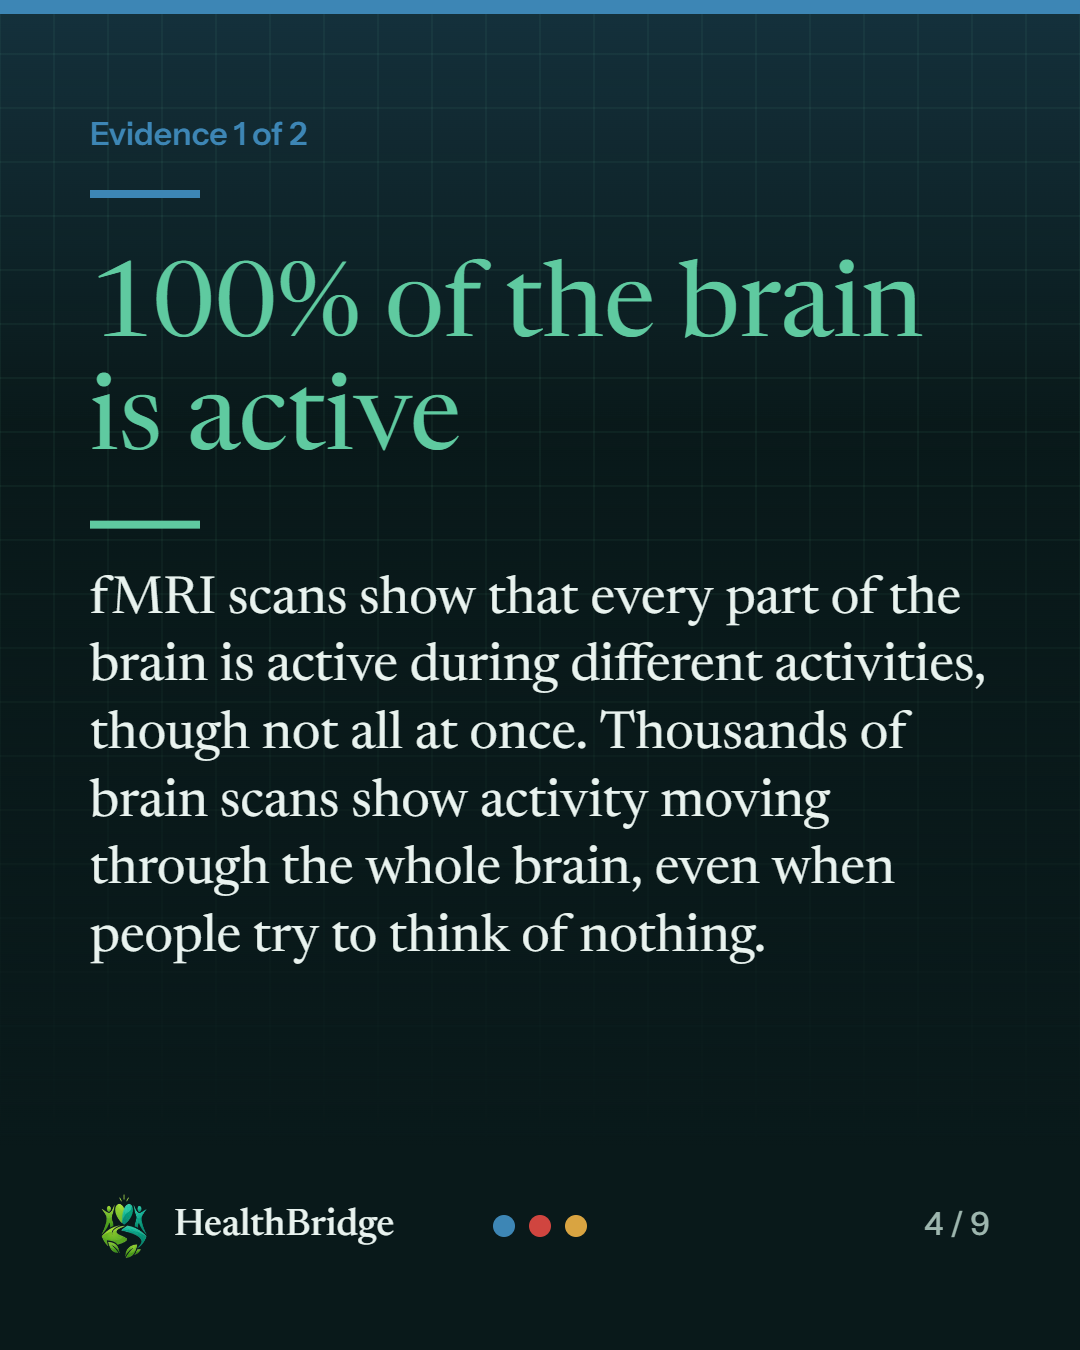
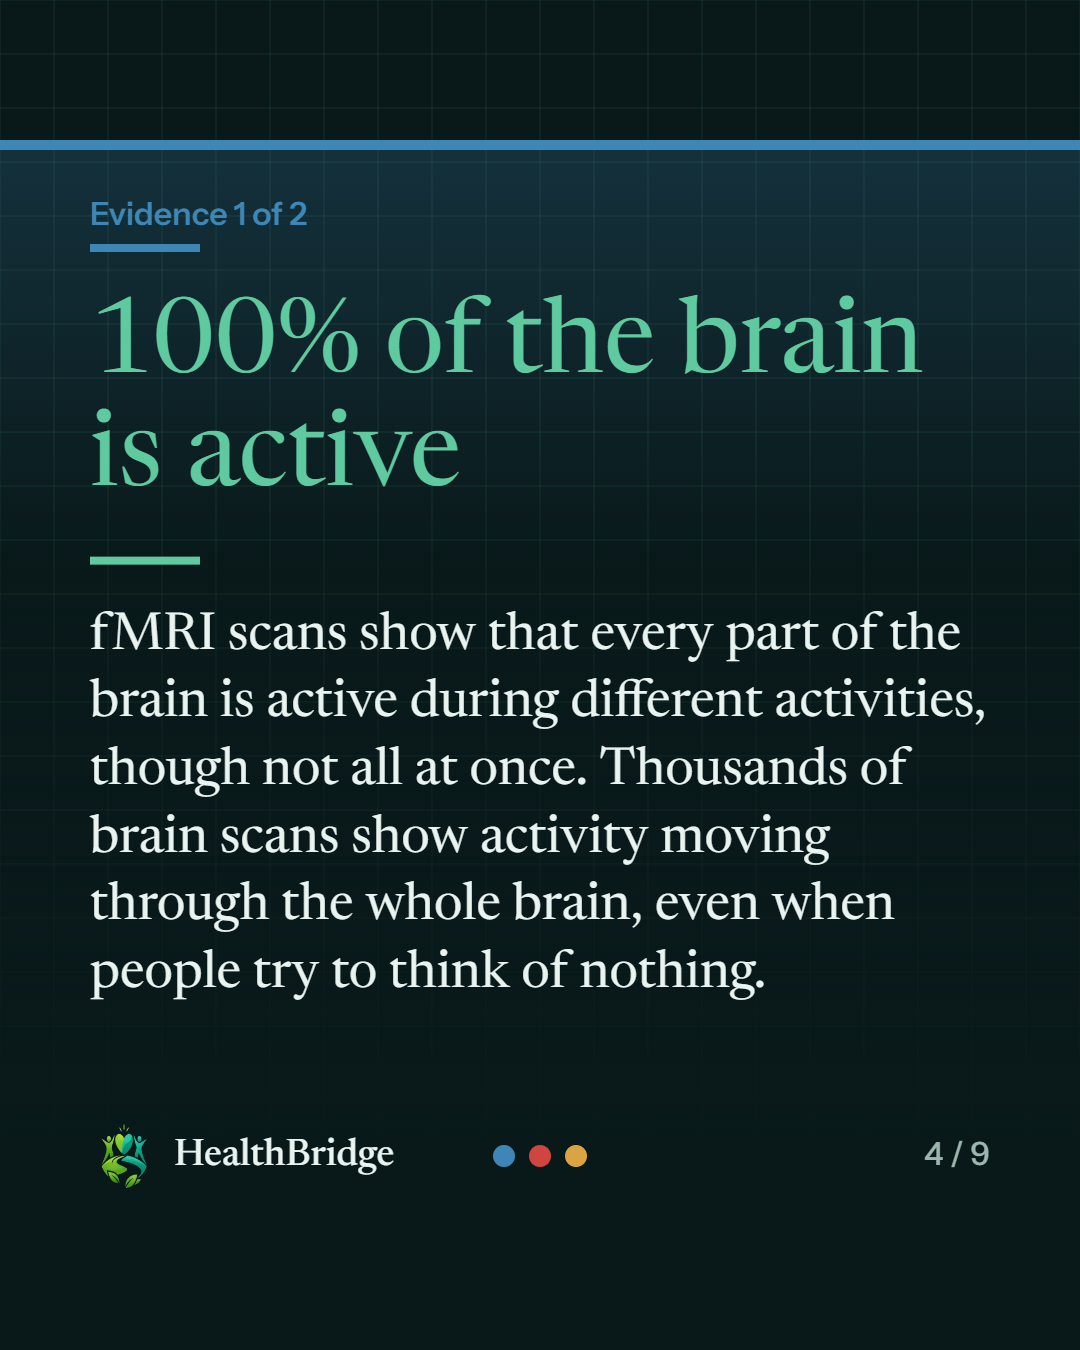
MythBuster 1 slides re-made with a square-crop safe zone; carousel maker keeps the accent strip, labels and footer inside rows 135-1215

diff --git a/tools/carousel/index.html b/tools/carousel/index.html
@@ -151,7 +151,7 @@
     dark: { bg: '#09191a', ink: '#e9f3ef', ink2: '#9db6ae', brand: '#5fcaa0', grid: 'rgba(95,202,160,0.09)', bad: '#ff8d78', mid: '#e8b45a' },
     forest: { bg: '#0d3b2f', ink: '#e9f5ef', ink2: '#a9cdbf', brand: '#8fe0b5', grid: 'rgba(233,245,239,0.08)', bad: '#ffb09c', mid: '#f0c878' },
   }
-  var POST = { w: 1080, h: 1350, top: 0, bottom: 90 }
+  var POST = { w: 1080, h: 1350, top: 0, bottom: 160 } // bottom 160 keeps the footer inside a centred square crop (Instagram crops 1350 high slides to 1080 high: it cuts 135 px off the top and bottom)
   var STORY = { w: 1080, h: 1920, top: 250, bottom: 340 } // Instagram covers the top and bottom of a story with its own buttons
   var DIM = POST
   var MAX_BODY = 8 // Instagram allows 10 slides: a cover, up to 8 body slides, and the last slide
@@ -207,9 +207,12 @@
         { name: 'verdict', label: 'Verdict', kind: 'select', options: ['Myth', 'Partly true', 'True', 'Not proven'] },
         { name: 'truth', label: 'The short answer (verdict slide)', kind: 'area', help: 'Plain language. One or two sentences, about 25 words.' },
         { name: 'terms', label: 'Words to know (optional, one per line as: word: meaning)', kind: 'area', help: 'Two or three words a reader might not know. Keep each meaning to one short sentence.' },
+        { name: 'headline1', label: 'Big phrase for evidence slide 1 (optional, 8 words or fewer)', kind: 'text', max: 60 },
         { name: 'evidence1', label: 'Evidence slide 1 (optional)', kind: 'area', help: 'One finding, plain language, about 40 words.' },
+        { name: 'headline2', label: 'Big phrase for evidence slide 2 (optional, 8 words or fewer)', kind: 'text', max: 60 },
         { name: 'evidence2', label: 'Evidence slide 2 (optional)', kind: 'area', help: 'A second, different finding.' },
         { name: 'origin', label: 'Where the myth came from (optional, keep it short)', kind: 'area', short: true, help: 'Two sentences at most.' },
+        { name: 'timeline', label: 'Timeline under it (optional, one per line as: year: what happened)', kind: 'area', help: 'Up to 3 lines. Shown as a timeline on the "where it came from" slide.' },
         { name: 'source1', label: 'Source 1: who (author and publisher)', kind: 'text', max: 90, help: 'For example: Avery Hurt, Discover Magazine. Check the source yourself first.' },
         { name: 'source1t', label: 'Source 1: title and year', kind: 'text', max: 140 },
         { name: 'source2', label: 'Source 2: who (author and publisher)', kind: 'text', max: 90 },
@@ -407,6 +410,13 @@
       rr(ctx, PAD + k * gap, cy - h / 2, gap * 0.55, h, gap * 0.27); ctx.fill()
     }
   }
+  // The topic's own symbol, drawn large in outline on the right of a MythBuster cover
+  function topicIcon(ctx, topic, y, size) {
+    var tp = TOPIC[topic]; if (!tp) return
+    ctx.save(); ctx.translate(DIM.w - PAD - size, y); ctx.scale(size / 64, size / 64)
+    ctx.strokeStyle = tp.c; ctx.lineWidth = 2.4; ctx.lineJoin = 'round'; ctx.lineCap = 'round'
+    ctx.stroke(tp.icon); ctx.restore()
+  }
   function deco(ctx, t, kind, y, seedText) { if (kind === 'wave') wave(ctx, t, y + 80, seedText); else trace(ctx, t, y) }
   function background(ctx, t) {
     var W = DIM.w, H = DIM.h
@@ -430,11 +440,20 @@
     ctx.textAlign = 'left'
   }
   // a label's colour: the topic's colour if the label names one of the three topics, otherwise the brand green
-  function labelColour(t, label) { var k = ['Neurology', 'Cardiology', 'Psychology'].filter(function (x) { return String(label || '').indexOf(x) >= 0 })[0]; return k ? TOPIC[k].c : t.brand }
+  var curAccent = null // the topic colour of the slide being drawn (MythBuster sets it on every slide)
+  function labelColour(t, label) { var k = ['Neurology', 'Cardiology', 'Psychology'].filter(function (x) { return String(label || '').indexOf(x) >= 0 })[0]; return k ? TOPIC[k].c : (curAccent || t.brand) }
+  // A hint of the topic colour on every slide: a soft glow from the top edge and a thin strip along it
+  function accentHint(ctx, colour) {
+    // The strip sits at y 140, inside the part a centred square crop keeps (rows 135 to 1215), so Instagram cannot cut it off
+    var W = DIM.w, g = ctx.createLinearGradient(0, 140, 0, 560)
+    g.addColorStop(0, hexA(colour, 0.22)); g.addColorStop(1, hexA(colour, 0))
+    ctx.fillStyle = g; ctx.fillRect(0, 140, W, 420)
+    ctx.fillStyle = colour; ctx.fillRect(0, 140, W, 10)
+  }
   function labelRule(ctx, t, label) {
     var lc = labelColour(t, label)
     ctx.fillStyle = lc; ctx.font = '600 32px ' + SANS; ctx.textBaseline = 'top'
-    ctx.fillText(label, PAD, 120); ctx.fillRect(PAD, 190, 110, 8)
+    ctx.fillText(label, PAD, 164); ctx.fillRect(PAD, 208, 110, 8) // below the accent strip (140-150) so a square crop keeps it
   }
 
   /* ----- One slide, by kind ----- */
@@ -442,17 +461,46 @@
     canvas.width = DIM.w; canvas.height = DIM.h
     var ctx = canvas.getContext('2d'), t = THEMES[d.theme] || THEMES.light, W = DIM.w
     background(ctx, t); ctx.textAlign = 'left'
+    curAccent = s.accent || null
+    if (curAccent) accentHint(ctx, curAccent)
     var fits = true, inner = { w: W - 2 * PAD }
+    ctx.save(); if (DIM === POST) ctx.translate(0, 36) // post content sits 36 px lower, clear of the accent strip (rows 140-150); the footer is drawn after restore()
     if (s.kind === 'cover') {
       ctx.fillStyle = labelColour(t, s.label); ctx.font = '600 36px ' + SANS; ctx.textBaseline = 'top'
-      ctx.fillText(s.label, PAD, 150)
-      var r = paragraph(ctx, s.text, PAD, 230, { w: inner.w, h: 620, max: 150, min: 64, weight: '400', family: SERIF, lh: 1.04 }, t.ink)
+      ctx.fillText(s.label, PAD, 164)
+      var topicCover = String(s.deco || '').indexOf('topic:') === 0
+      var r = paragraph(ctx, s.text, PAD, 230, { w: inner.w, h: topicCover ? 440 : 620, max: 150, min: 64, weight: '400', family: SERIF, lh: 1.04 }, t.ink)
       fits = r.fits
-      if (s.by) { ctx.fillStyle = t.ink2; ctx.font = '500 38px ' + SANS; ctx.textBaseline = 'top'; ctx.fillText(s.by, PAD, Math.min(r.bottom + 40, 880)) }
-      deco(ctx, t, s.deco, 960, s.text)
+      if (s.by) { ctx.fillStyle = t.ink2; ctx.font = '500 38px ' + SANS; ctx.textBaseline = 'top'; ctx.fillText(s.by, PAD, Math.min(r.bottom + 40, topicCover ? 720 : 880)) }
+      if (topicCover) topicIcon(ctx, s.deco.slice(6), 700, 300); else deco(ctx, t, s.deco, 900, s.text)
     } else if (s.kind === 'text') {
       labelRule(ctx, t, s.label)
       fits = paragraph(ctx, s.text, PAD, 270, { w: inner.w, h: 780, max: 96, min: 44, weight: '400', family: SERIF, lh: 1.2, centre: 0.38 }, t.ink).fits
+    } else if (s.kind === 'evidence') {
+      // A big short phrase first, then the finding underneath in a smaller size
+      labelRule(ctx, t, s.label)
+      var hd = paragraph(ctx, s.head, PAD, 260, { w: inner.w, h: 380, max: 104, min: 60, weight: '400', family: SERIF, lh: 1.08 }, labelColour(t, s.label) === t.brand ? t.brand : t.brand)
+      ctx.fillStyle = t.brand; ctx.fillRect(PAD, hd.bottom + 36, 110, 8)
+      var bd = paragraph(ctx, s.text, PAD, hd.bottom + 90, { w: inner.w, h: Math.max(200, 1050 - (hd.bottom + 90)), max: 52, min: 34, weight: '400', family: SERIF, lh: 1.3 }, t.ink)
+      fits = hd.fits && bd.fits
+    } else if (s.kind === 'origin') {
+      // The short story first, then a timeline with a dot for each date
+      labelRule(ctx, t, s.label)
+      var og = paragraph(ctx, s.text, PAD, 250, { w: inner.w, h: 300, max: 46, min: 34, weight: '400', family: SERIF, lh: 1.28 }, t.ink)
+      var oy = Math.max(og.bottom + 50, 560), lx = PAD + 14
+      var n3 = s.items.length, step = Math.min(170, (1040 - oy) / n3)
+      ctx.strokeStyle = t.brand; ctx.lineWidth = 6; ctx.lineCap = 'round'
+      ctx.beginPath(); ctx.moveTo(lx, oy + 18); ctx.lineTo(lx, oy + 18 + step * (n3 - 1)); ctx.stroke()
+      fits = og.fits
+      s.items.forEach(function (it, i) {
+        var cy = oy + i * step
+        ctx.fillStyle = t.brand; ctx.beginPath(); ctx.arc(lx, cy + 18, 15, 0, 6.2832); ctx.fill()
+        ctx.fillStyle = t.brand; ctx.font = '600 42px ' + SANS; ctx.textBaseline = 'top'; ctx.fillText(it.who, PAD + 56, cy)
+        ctx.fillStyle = t.ink; ctx.font = '400 36px ' + SERIF
+        var lines = wrap(ctx, it.title, inner.w - 56)
+        lines.slice(0, 2).forEach(function (l, j) { ctx.fillText(l, PAD + 56, cy + 52 + j * 44) })
+        if (lines.length > 2) fits = false
+      })
     } else if (s.kind === 'list') {
       labelRule(ctx, t, s.label)
       fits = list(ctx, t, s.items, PAD, 270, { w: inner.w, h: 780, max: 66, min: 36, lh: 1.22 }, s.ordered)
@@ -472,22 +520,42 @@
     } else if (s.kind === 'terms') {
       // Each word in bold, its meaning under it
       labelRule(ctx, t, s.label)
-      var ty = 270, tw = 40, tm = 44
+      // each word sits on its own card, with a coloured bar down the left edge
+      var ty = 270, tw = 44, tm = 40, cardPad = 34, barW = 10
       ctx.textBaseline = 'top'
-      s.items.forEach(function (it) {
-        if (it.who) { ctx.fillStyle = t.brand; ctx.font = '600 ' + tw + 'px ' + SANS; ctx.fillText(it.who, PAD, ty); ty += tw * 1.4 }
-        ctx.fillStyle = t.ink; ctx.font = '400 ' + tm + 'px ' + SERIF
-        wrap(ctx, it.title, inner.w).forEach(function (l) { ctx.fillText(l, PAD, ty); ty += tm * 1.3 })
-        ty += 56
+      var cards = s.items.map(function (it) {
+        ctx.font = '400 ' + tm + 'px ' + SERIF
+        var ls = wrap(ctx, it.title, inner.w - 2 * cardPad - barW)
+        return { it: it, ls: ls, h: cardPad * 2 + (it.who ? tw * 1.4 : 0) + ls.length * tm * 1.3 }
       })
-      fits = ty <= 1060
+      var lc2 = labelColour(t, s.cat || s.label)
+      cards.forEach(function (c) {
+        ctx.fillStyle = t.grid; rr(ctx, PAD, ty, inner.w, c.h, 22); ctx.fill()
+        ctx.fillStyle = t.brand; rr(ctx, PAD, ty, barW + 12, c.h, 6); ctx.fill()
+        var cy2 = ty + cardPad, tx = PAD + barW + cardPad
+        if (c.it.who) { ctx.fillStyle = t.brand; ctx.font = '600 ' + tw + 'px ' + SANS; ctx.fillText(c.it.who, tx, cy2); cy2 += tw * 1.4 }
+        ctx.fillStyle = t.ink; ctx.font = '400 ' + tm + 'px ' + SERIF
+        c.ls.forEach(function (l) { ctx.fillText(l, tx, cy2); cy2 += tm * 1.3 })
+        ty += c.h + 36
+      })
+      fits = ty - 36 <= 1060
     } else if (s.kind === 'verdict') {
       labelRule(ctx, t, 'Verdict')
       var col = s.verdict === 'Myth' ? t.bad : s.verdict === 'Partly true' || s.verdict === 'Not proven' ? t.mid : t.brand
       ctx.fillStyle = col; ctx.font = '400 150px ' + SERIF; ctx.textBaseline = 'top'
-      var vw = ctx.measureText(s.verdict).width; if (vw > inner.w) { ctx.font = '400 ' + Math.floor(150 * inner.w / vw) + 'px ' + SERIF }
+      var vw = ctx.measureText(s.verdict).width, vmax = inner.w - 290; if (vw > vmax) { ctx.font = '400 ' + Math.floor(150 * vmax / vw) + 'px ' + SERIF }
       ctx.fillText(s.verdict, PAD, 250)
       ctx.fillRect(PAD, 440, 110, 8)
+      // a stamp: a ring with a cross (myth), a tick (true) or a question mark (partly true, not proven), tilted a little
+      ctx.save(); ctx.translate(W - PAD - 130, 345); ctx.rotate(-0.12)
+      ctx.strokeStyle = col; ctx.fillStyle = col; ctx.lineWidth = 12; ctx.lineCap = 'round'; ctx.lineJoin = 'round'
+      ctx.beginPath(); ctx.arc(0, 0, 118, 0, 6.2832); ctx.stroke()
+      ctx.lineWidth = 8; ctx.beginPath(); ctx.arc(0, 0, 100, 0, 6.2832); ctx.stroke()
+      ctx.lineWidth = 22
+      if (s.verdict === 'Myth') { ctx.beginPath(); ctx.moveTo(-48, -48); ctx.lineTo(48, 48); ctx.moveTo(48, -48); ctx.lineTo(-48, 48); ctx.stroke() }
+      else if (s.verdict === 'True') { ctx.beginPath(); ctx.moveTo(-56, 4); ctx.lineTo(-18, 44); ctx.lineTo(58, -44); ctx.stroke() }
+      else { ctx.font = '700 150px ' + SANS; ctx.textAlign = 'center'; ctx.textBaseline = 'middle'; ctx.fillText('?', 0, 6); ctx.textAlign = 'left' }
+      ctx.restore()
       fits = paragraph(ctx, s.text, PAD, 490, { w: inner.w, h: 600, max: 62, min: 36, weight: '400', family: SERIF, lh: 1.25 }, t.ink).fits
     } else if (s.kind === 'end') {
       ctx.fillStyle = t.ink; ctx.font = '400 118px ' + SERIF; ctx.textBaseline = 'top'
@@ -500,10 +568,11 @@
       ctx.fillText(link, PAD, Math.max(c.bottom + 50, 700))
       ctx.fillStyle = t.ink2; ctx.font = '500 34px ' + SANS
       ctx.fillText('Join us on Substack, Instagram and LinkedIn', PAD, Math.max(c.bottom + 130, 780))
-      deco(ctx, t, s.deco, 960, s.heading.join(' '))
+      deco(ctx, t, s.deco, 900, s.heading.join(' '))
     } else if (s.kind === 'qs' || s.kind === 'qa') {
       fits = drawQuiz(ctx, t, s, d)
     }
+    ctx.restore()
     brandRow(ctx, t, n, total)
     return fits
   }
@@ -626,17 +695,21 @@
       var src = [{ who: v.source1, title: v.source1t }, { who: v.source2, title: v.source2t }].filter(function (s) { return s.who.trim() || s.title.trim() })
       if (v.myth.trim() && src.length < 2) notes.push('A MythBuster needs two sources you have checked yourself. You have ' + src.length + '.')
       longWords([v.truth].filter(Boolean), 3, notes, 55)
-      var out = [{ kind: 'cover', label: 'MythBuster, ' + v.category, text: v.myth ? '“' + v.myth.trim() + '”' : 'The myth goes here', by: 'By ' + (v.author2 || v.author || 'HealthBridge'), deco: 'trace' }]
+      var out = [{ kind: 'cover', label: 'MythBuster, ' + v.category, text: v.myth ? '“' + v.myth.trim() + '”' : 'The myth goes here', by: 'By ' + (v.author2 || v.author || 'HealthBridge'), deco: TOPIC[v.category] ? 'topic:' + v.category : 'trace' }]
       out.push({ kind: 'verdict', verdict: v.verdict, text: v.truth.trim() || 'What the evidence shows goes here.' })
       var terms = v.terms.split('\n').map(function (l) { return l.trim() }).filter(Boolean).slice(0, 4).map(function (l) { var i = l.indexOf(':'); return i > 0 ? { who: l.slice(0, i).trim(), title: l.slice(i + 1).trim() } : { who: '', title: l } })
       if (terms.length) out.push({ kind: 'terms', label: 'Words to know', items: terms })
       var ev = [v.evidence1, v.evidence2].filter(function (e) { return e.trim() })
       longWords(ev, 3, notes, 55)
-      ev.forEach(function (e, i) { out.push({ kind: 'text', label: ev.length > 1 ? 'Evidence ' + (i + 1) + ' of ' + ev.length : 'Evidence', text: e.trim() }) })
-      if (v.origin.trim()) out.push({ kind: 'text', label: 'Where it came from', text: v.origin.trim() })
+      var heads = [v.headline1, v.headline2].filter(function (h, i) { return [v.evidence1, v.evidence2][i].trim() })
+      ev.forEach(function (e, i) { out.push({ kind: heads[i] && heads[i].trim() ? 'evidence' : 'text', label: ev.length > 1 ? 'Evidence ' + (i + 1) + ' of ' + ev.length : 'Evidence', head: (heads[i] || '').trim(), text: e.trim() }) })
+      var tl = v.timeline.split('\n').map(function (l) { return l.trim() }).filter(Boolean).slice(0, 3).map(function (l) { var i = l.indexOf(':'); return i > 0 ? { who: l.slice(0, i).trim(), title: l.slice(i + 1).trim() } : { who: '', title: l } })
+      if (v.origin.trim() && tl.length) out.push({ kind: 'origin', label: 'Where it came from', text: v.origin.trim(), items: tl })
+      else if (v.origin.trim()) out.push({ kind: 'text', label: 'Where it came from', text: v.origin.trim() })
       if (v.takeaway.trim()) out.push({ kind: 'text', label: 'What to remember', text: v.takeaway.trim() })
       if (src.length) out.push({ kind: 'sources', label: 'Sources', items: src.map(function (s) { return { who: s.who.trim(), title: s.title.trim() } }), note: v.srcnote.trim() })
       out.push({ kind: 'end', heading: ['Read the', 'full story'], text: v.closing || 'More myths on our Substack.', link: v.link, deco: 'trace' })
+      if (TOPIC[v.category]) out.forEach(function (s) { s.accent = TOPIC[v.category].c })
       return { slides: out, ready: !!v.myth.trim() && !!v.truth.trim(), name: v.myth, need: 'Write the myth and what the evidence shows to download.' }
     },
     podcast: function (v, notes) {
